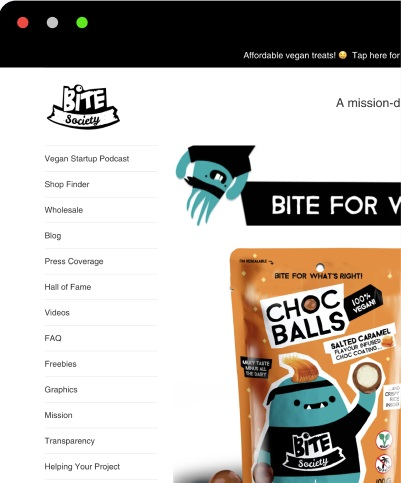
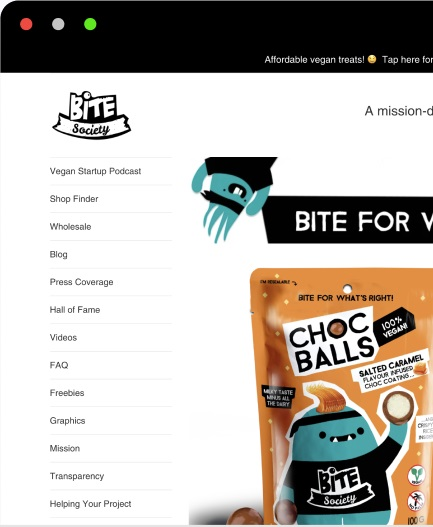
style changes

diff --git a/index.html b/index.html
@@ -1,10 +1,8 @@
 <html>
     
-    <head>
+  <head>
         <!-- <link rel="stylesheet" href="./index.css" /> -->
-        <link rel = "stylesheet"
-   type = "text/css"
-   href = "style.css" />
+        <link rel = "stylesheet" type = "text/css" href = "style.css" />
    <meta charset="utf-8">
   <meta name="viewport" content="width=device-width, initial-scale=1">
   <link rel="stylesheet" href="https://maxcdn.bootstrapcdn.com/bootstrap/4.4.1/css/bootstrap.min.css">
@@ -27,7 +25,7 @@
     <body style="font-family: Montserrat;">
         <!-- main header start -->
         <div class="container-fluid bg-dark text-white text-center top-header " style="z-index: 9999;">
-            <div class="header-section">Set up your online shopify store in just 48 hrs <a href="#">contact Us</a></div>
+            <div class="header-section">Set up your online shopify store in just 48 hrs <a href="#">Contact Us</a></div>
         </div>
         <!-- main header end -->
         <!-- header section start -->
@@ -41,8 +39,6 @@
       
         <div class="collapse navbar-collapse site-nav" id="navbarSupportedContent">
           <ul class="navbar-nav mr-auto">
-           
-            
           </ul>
           <form class="form-inline my-2 my-lg-0">
             <ul class="navbar-nav mr-auto" style="font-weight: 600;">
@@ -58,8 +54,6 @@
                 <li class="nav-item" onclick="scrollto('contact')">
                   <a class="nav-link" href="#">CONTACT US</a>
                 </li>
-               
-               
               </ul>
              </form>
         </div>
@@ -91,11 +85,11 @@
                      <div>Read full case study <u class="color1">here</u></div> 
                     </div>
                     <div class="bottom-text d-flex">
-                        <h2 style="width: 140px;font-weight: 800;">Our Clients</h2><hr/>
-                        <img src="cont.jpg" style="height: 85px;width: 176px;">
-                        <h2 style="width: 128px; color: green;margin-left: 10px;font-weight: 800;">my acme</h2><hr/>
+                        <h2 style="width: 140px;font-weight: 800;line-height: 34px;">Our Clients</h2><hr/>
+                        <img src="cont.jpg" style="height: 77px;width: 176px;margin-right: 5px;">
+                        <h2 style="width: 128px; color: green;margin-left: 10px;font-weight: 800;">my <br/>acme</h2><hr/>
                         <!-- <div><b class="color2" style="color: green;margin-left: 10px;">my acme</b></div> -->
-                        <img src="image.jpg" style="margin-top: -330px;margin-left: 98px;width: 345px;"/>
+                        <img src="image.jpg" style="margin-top: -327px;margin-left: 98px;width: 345px;"/>
                     </div>
             </div>
         </div>
@@ -118,10 +112,10 @@
                         <div>Read full case study <u class="color1">here</u></div> 
                     </div>
                     <div class="bottom-text d-flex">
-                        <h2 style="width: 128px; font-weight: 800;">Our Clients</h2><hr/>
+                        <h2 style="width: 140px;font-weight: 800;line-height: 34px;">Our Clients</h2><hr/>
                         <img src="download (1).png" style="height: 100px;width: 176px;"/>
-                        <div><img src="footerimg.jpg" style="margin-left: 10px;height: 65px;"></div>
-                        <img src="image2.jpg" style="margin-top: -328px;margin-left: 98px;width: 345px;"/>
+                        <div><img src="footerimg.jpg" style="margin-left: 10px;height: 68px;"></div>
+                        <img src="image2.jpg" style="margin-top: -328px;margin-left: 118px;width: 345px;"/>
                     </div>
             </div>
         </div>
@@ -140,7 +134,7 @@
       <!-- About us start -->
       <div class="container margin-class" id="about">
           <div class="contact-text2 d-flex"> 
-              <img src="cup.png" class="cup-image"/>
+              <img src="image3.jpg" class="cup-image"/>
               <div class="text3">
                   <div>We are</div>
                   <div>Best at</div> 

diff --git a/style.css b/style.css
@@ -6,55 +6,63 @@ top:0px
 }
 .header-logo{
     height: 37px;
-    margin-left: 100px;
+    margin-top: 9px;
+    margin-left: 274px;
 }
 .site-position{
     top:35px;
     position: fixed !important;
     width: 100% !important;
 }
-/* .site-nav {
-    position: fixed;
-    width: 100%;
-    top: 38px;
-  
-  } */
+
 .home-text{
-    text-align: left ;
-    font-weight: bolder ;
-    font-size: 76px; 
-    max-width: 746px ;
+    text-align: left;
+    /* font-weight: bolder; */
+    font-size: 85px;
+    max-width: 757px;
     margin: auto;
     margin-top: 50px;
+    font-weight: 900;
+    line-height: 88px;
+    padding: 2px;
+    /* height: 378px;  */
 }
 .home-page-subtitle{
     font-size: 15px;
     line-height: 24px;
-    color: #000000; 
-   margin: auto;
+    color: #000000;
     max-width: 453px;
-    text-align: left;
     margin-left: 184px!important;
+    font-size: 16px;
+    color: #000000;
   
 }
 .contact-text{
-    text-align: left ;
-    font-weight: bolder ;
-    font-size: 74px;
-    max-width: 746px ;
+    text-align: left;
+    font-weight: 900;
+    font-size: 72px;
+    max-width: 746px;
     margin: auto;
-    margin-top: 50px;  
+    margin-top: 40px;
+    font-style: normal;
+    line-height: 88px;
+    width: 903px;
+    height: 176px;
 }
 .get-in-text{
-    color: peru;
-    font-size: 50!important;
-    font-size: medium;
     margin-left: 178px !important;
+    font-family: Space Mono;
+    font-style: normal;
+    font-size: 36px;
+    line-height: 53px;
+    text-decoration-line: underline;
+    color: #CFA140;
 }
 .Thank{
-    margin-top: 224px;
+    margin-top: 170px;
     margin-left: 169px;
     font-size: 24px;
+    color: #000000;
 }
 .icon{
     vertical-align: middle;
@@ -62,16 +70,21 @@ top:0px
     height: 50px;
 }
 .cup-image{
-    margin-left: 100px;
-    margin-top: 80px;
+    margin-left: 130px;
+    margin-top: 121px;
 }
 .text3{
-    margin-top: 115px;
+    margin-top: 119px;
     font-size: 48px;
-    font-weight: 800;
+    font-weight: 900;
+    font-style: normal;
+    line-height: 59px;
+    width: 279;
+    height: 118px;
 }
 .about-list{
-    margin-left: 150px;
+    margin-left: 149px;
+    margin-top: 35px;
 }
 .bit{
     margin-left: 162px;
@@ -92,7 +105,7 @@ top:0px
 }
 .bottom-text{
     margin-left: -98px;
-    margin-top: 51px;
+    margin-top: 47px;
 }
 .margin-class{
     padding-top:100px;
@@ -108,7 +121,7 @@ top:0px
 .prev{
     cursor: pointer;
     position: absolute;
-    top: 63%;
+    top: 64%;
     width: auto;
     padding: 16px;
     margin-top: -22px;
@@ -120,9 +133,12 @@ top:0px
     user-select: none;
     left: 0px;
     background-color: black;
-    opacity: 0.7;
+    opacity: 0.4;
+    margin-left: 125px;
   }
-
+.prev:hover {
+    background-color:green !important;
+  }
   .next {
     cursor: pointer;
     position: absolute;
@@ -138,5 +154,9 @@ top:0px
     user-select: none;
     right: 0px;
     background-color: black;
-    opacity: 0.7;
+    opacity: 0.4;
+    
   }
+  .next:hover {
+    background-color: green !important;
+  } 
